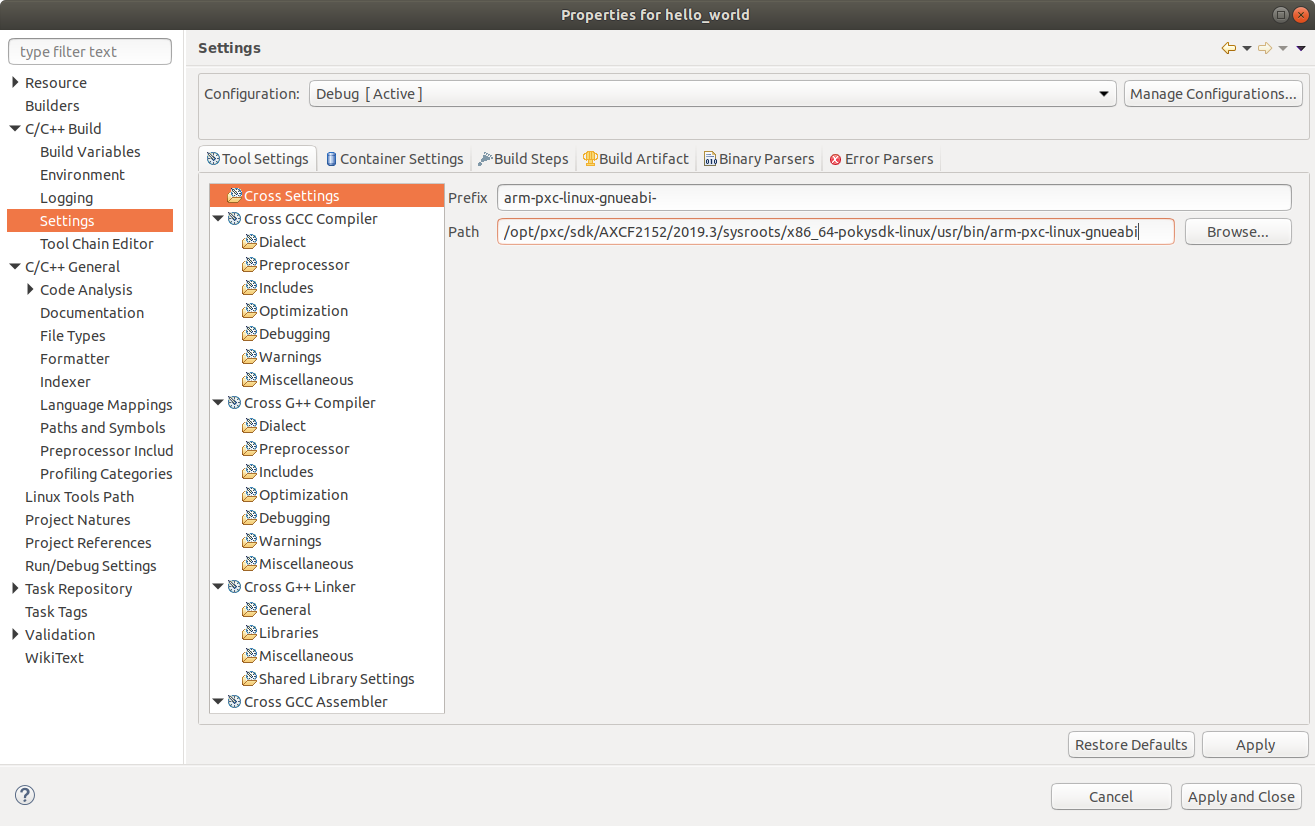
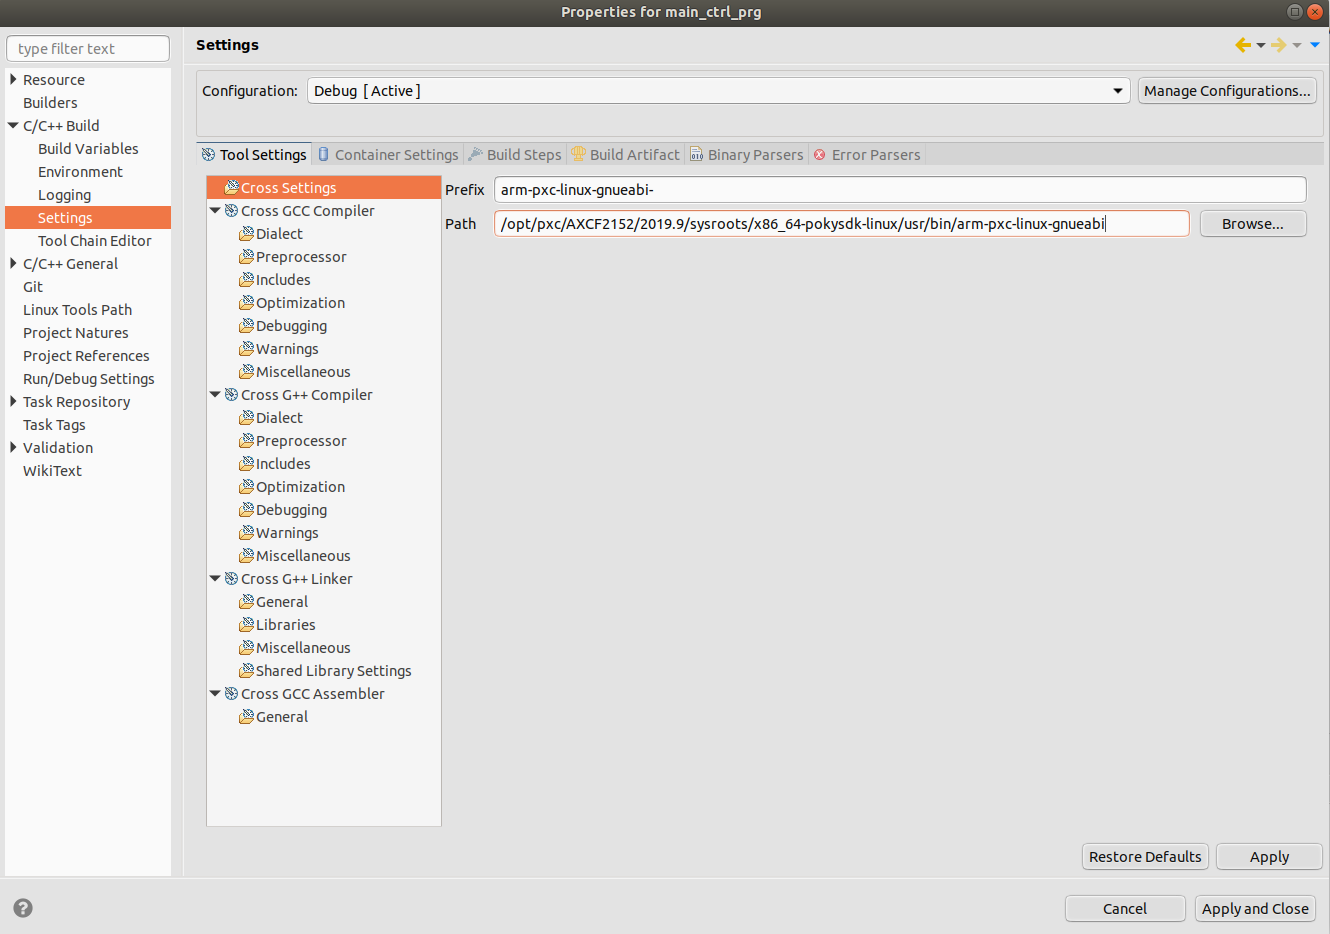
Fix path settings (#12)
* Fix path settings

* [fix] Correct pictures

Changed region(s): [[0.0, 0.0, 1.0, 1.0]]

diff --git a/HowTo install Linux (Ubuntu) tools for C++ programming with Eclipse IDE/readme.md b/HowTo install Linux (Ubuntu) tools for C++ programming with Eclipse IDE/readme.md
@@ -98,14 +98,14 @@ chmod +x ./pxc-glibc-x86_64-axcf2152-image-sdk-cortexa9t2hf-neon-toolchain-2019.
 
 Specify the path to install:
 
->/opt/pxc/sdk/AXCF2152/2019.9
+>/opt/pxc/AXCF2152/2019.9
 
 ## 4. Configure Eclipse® IDE to use the installed PLCnext SDK ##
 
 Set project cross settings (prefix and path):
 
 >arm-pxc-linux-gnueabi-  
->/opt/pxc/sdk/AXCF2152/2019.9/sysroots/x86_64-pokysdk-linux/usr/bin/arm-pxc-linux-gnueabi
+>/opt/pxc/AXCF2152/2019.9/sysroots/x86_64-pokysdk-linux/usr/bin/arm-pxc-linux-gnueabi
 
 ![SDK ok](images/cdt_cross_settings.png)
 
@@ -123,13 +123,13 @@ Set project cross G++ Preprocessor defines:
 
 Set project cross G++ Preprocessor includes:
 
->/opt/pxc/sdk/AXCF2152/2019.9/sysroots/cortexa9t2hf-neon-pxc-linux-gnueabi/usr/include/plcnext
+>/opt/pxc/AXCF2152/2019.9/sysroots/cortexa9t2hf-neon-pxc-linux-gnueabi/usr/include/plcnext
 
 ![SDK ok](images/cdt_includes.png)
 
 Set project cross G++ Linker flags:
 
->--sysroot=/opt/pxc/sdk/AXCF2152/2019.9/sysroots/cortexa9t2hf-neon-pxc-linux-gnueabi -march=armv7-a -mthumb -mfpu=neon -mfloat-abi=hard -mcpu=cortex-a9 -Wl,--no-undefined
+>--sysroot=/opt/pxc/AXCF2152/2019.9/sysroots/cortexa9t2hf-neon-pxc-linux-gnueabi -march=armv7-a -mthumb -mfpu=neon -mfloat-abi=hard -mcpu=cortex-a9 -Wl,--no-undefined
 
 ![SDK ok](images/cdt_cross_linker_settings.png)
 
